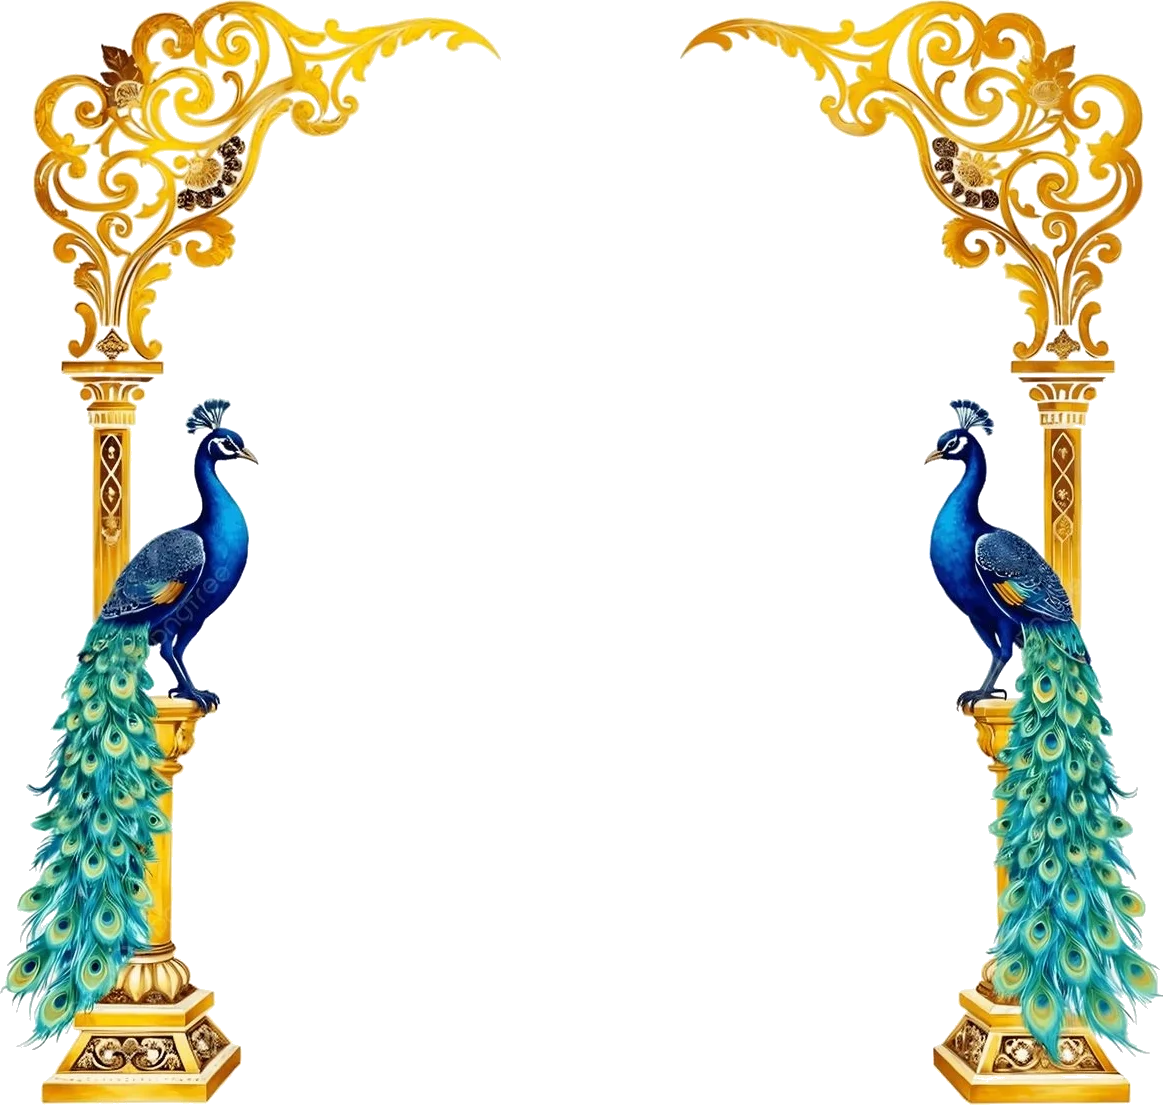
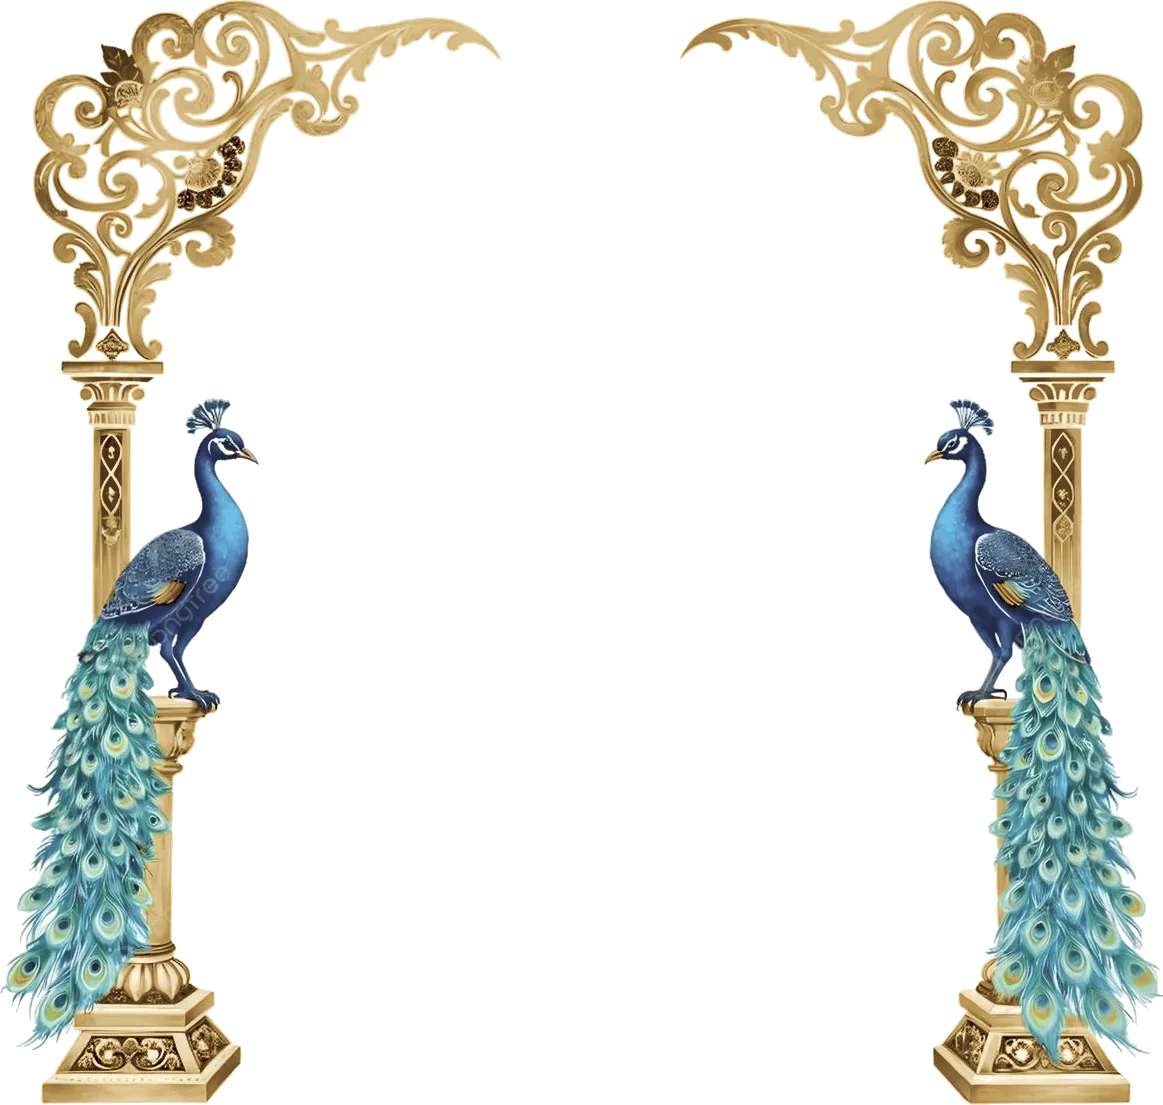
Family: the peacock frame in the site's antique gold
The peacock frame's bright yellow gold and electric blues stood out
against the rest of the site. Its gold is now the site's antique gold
(#B89554, toned from shadow to highlight so the carving and filigree
keep their relief), and the peacocks' blues and teals are calmer - less
saturated, a little lighter, leaning to the site's dusky blue.

Changed region(s): [[0.0, 0.0, 0.4334, 1.0], [0.5881, 0.0, 0.9905, 1.0]]

diff --git a/README.md b/README.md
@@ -117,7 +117,7 @@ Each section has its own composition, and each hands over to the next.
 | — | Between sections | A ripple of the Ganga (`SectionSeparator`, 72px, edge to edge): a fine wavy line in pale blue and gold with a fainter one behind, on a soft band of the site's mist so each section flows into the next; on it a small floating ornament — lotus (its petals opening and closing, just), diya (its flame flickering) or shankh, by turn — bobbing gently. Once in view the line draws from left to right (0.8s) and the ornament rises in after it; as the guest scrolls the two lines drift a little in opposite ways (±26px / ∓18px). None between the Save the Date and the couple section. Section paddings are small (`--section-gap` 1.25rem) so the ripple takes the place of empty space. Reduced motion: still. |
 | 03 | Countdown | Above: शुभ मुहूर्त, "Countdown Begins", a fine gold line and the date — the eyebrow and the date in a deep antique gold (#7A561C), the date at 14px, to read on the pale sky in sunlight. Then the couple's wreath (`assets.countdownWreath`), made over for Shiv–Parvati: its travel and café icons replaced with watercolour icons in its own palette — trishul, damru, bilva patra and diya on the left, ghanti, kalash, shankh and a rudraksha mala on the right, each level with its pair — and the ring closed beneath by a leafy vine running behind the mountain and the joined hands (made by `scratchpad/wreath/compose.cjs`: old icons taken out, the vines kept). Inside it, the wedding's month as a calendar (made from the date), raised so the 28th clears the mountain's peak by 19px+; on the wedding day the watercolour blue lotus (its reds, like the wreath's pink roses, recoloured to lavender-blue for a cool palette) blooms under a white 12, clear of the 11th and 13th, breathing with a soft gold glow (2.6s). The clouds part as it appears. Under it, "Hamare vivah mein baaki hain" in the section's italic, then the row: the days large in navy turning gold, hours, minutes and seconds a little smaller; labels in English over Hindi (DAYS / दिन …), tabular digits. The first time it is seen the numbers count up from zero (1s); then each digit rolls on its own as it changes (300ms), and a small gold bead beats by the seconds. Always to 12 February 2027, 7:30 PM at the venue (IST), whatever the guest's time zone; on the day "Aaj Hamara Vivah Hai", afterwards "Shubh Vivah" — "Thank you for blessing us." EN / हिं switches its words. Reduced motion: no count-up, no roll, nothing pulses — fades only. |
 | 05 | Wedding Events | "Wedding Events" and its quote above the couple's gold temple arch (`assets.eventsArch`), its blue lotuses (recoloured from pink for a cool palette), banana leaves, music and elephant all still. Inside the arch, one ceremony at a time (`events.list`: name, date, time, venue, dress code, the couple dressed for it — cut-outs in `public/art/events/` — and an optional artist credit); all sized to the arch's own width, so it fits the same on every phone. The venue is a small ivory button with a fine gold edge (pin, place, a small arrow out): a tap opens the place in Google Maps (the main venue's own `venue.mapsUrl` when set). To the next: a tap on the arch, a swipe left, or › under it (‹ or a swipe right for the one before; the arrow keys too); after the last, the first. Between the arrows, gold progress marks (the one shown a short gold bar; a tap goes straight to one), and under them "Tap the arch frame to see the events" (`events.hint`). The change (0.8s, ease-in-out; taps meanwhile are ignored): the ceremony shown fades out, its picture easing down to 97% (0.3s); a small gold ornament — a lotus bud between two tendrils — glimmers where the couple stood; the next picture fades in from 96% to 100% (0.45s) and its words rise softly in just after; the marks move at once. The words never move up or down. Reduced motion: a short crossfade, no ornament. The dates, times, venues and dress codes are SAMPLES. |
-| 06 | Family | Temple bells hang from the section's top corners (fine antique-gold threads, alike on both sides; they drop in and settle with one small swing). "Two Families, One Celebration", "With Their Blessings" and its line, then a small gold lotus rule. Each family in the peacock frame (`assets.familyFrame`: gold pillars crowned with gold scrolls, a peacock on each pillar — its white made transparent; the copy now in the project carries the stock site's watermark, so replace it with the licensed file), its photograph (`family.sides[].photo`, 4:5) between the peacocks with an arched top and a fine gold edge, the peacocks just in front of it; then the family's name and members (relation in gold capitals, the names beneath). On a phone one above the other, a lotus rule between; from 520px side by side. A faint temple at the foot. The frame appears, then the photograph within it, then the names; the two sides take turns. |
+| 06 | Family | Temple bells hang from the section's top corners (fine antique-gold threads, alike on both sides; they drop in and settle with one small swing). "Two Families, One Celebration", "With Their Blessings" and its line, then a small gold lotus rule. Each family in the peacock frame (`assets.familyFrame`: gold pillars crowned with gold scrolls, a peacock on each pillar — its white made transparent, its bright yellow gold toned to the site's antique gold and the peacocks' blues and teals calmed so it sits with the palette; the copy now in the project carries the stock site's watermark, so replace it with the licensed file), its photograph (`family.sides[].photo`, 4:5) between the peacocks with an arched top and a fine gold edge, the peacocks just in front of it; then the family's name and members (relation in gold capitals, the names beneath). On a phone one above the other, a lotus rule between; from 520px side by side. A faint temple at the foot. The frame appears, then the photograph within it, then the names; the two sides take turns. |
 | 07 | Gallery | A heart-shaped collage under "Moments to Remember", "Our Gallery" and the quote (26px below it): 14 photos of different sizes (5 of the 9 twice, once as a close-up) with the same thin cream gap between all of them and round the edge (0.9cqw), clipped to the heart curve on a cream mount with a faint, soft shadow, 20px from the screen's edges (up to 440px), sized in its own width units so a real phone and the desktop's phone match. Seen the first time, the tiles fly in from random edges (turned up to ±15°, 70ms apart, a little spring, ~1.4s); then the heart beats now and then, barely (a soft double beat to 1.012, every 3.2s). 3D: 900px perspective, each tile lifted 0–40px by its size (large back, small front) and drawn back to its place at rest; it tilts up to ±8° with the gyroscope (Android at once; an iPhone asks on the first tap, and until allowed — or if refused — a sideways drag tilts it), or toward the mouse in the desktop's phone. A tap opens a lightbox: the whole photo grows out of its tile onto a night-blue veil, with its caption and ‹ 2 / 9 › — a swipe sideways, the arrows or the arrow keys go through all nine photos once each; a swipe down, ×, a tap on the veil or Escape closes it back into a tile showing it (focus and scroll position kept). "Tap a photo" shows until the first tap. With more photos than tiles, every 3s one tile turns over (rotateY 180°) to one not shown — one at a time, not while the lightbox is open or the heart is tilting. Thumbnails lazy-load; the full photo loads in the lightbox. Transform and opacity (a filter for the shadows). Reduced motion or a slow phone: no tilt, turning or beat; tiles fade in where they are; the lightbox fades. |
 | 08 | RSVP | On the page's own sky, as every section (no card). A gold trishul and fine rule at the top, temple bells hanging alike from the upper corners; first the invitation — "A Sacred Celebration", one line and one deep-navy button with a gold edge (as the Blessing Wall's), "JOIN THE CELEBRATION →" (the arrow steps on when pointed at). Tapped (once; more taps are ignored), the acceptance is sent (saved to the family's database when there is one); only when that succeeds does the invitation fade and "The Sacred Union" open in its place (a failure keeps the button, with the reason): a temple arch in thin antique-gold lines draws itself (pillars rising, the arch meeting at its peak, a kalash, one gleam), Mahadev holding Maa Parvati close (the couple's chosen painting, `assets.rsvpCouple`, cut out of its red ground) appears within it from 97% with a soft warm light behind, their feet melting into the sky; then "A Sacred Celebration", the blessing and "Har Har Mahadev" (`rsvp.*`), a navy "Add to calendar" button (Google Calendar or an .ics file of `wedding.dateTime` at the venue — saying exactly what happened, never that the date is saved) and an honest saved-where note. Nothing is remembered on the phone: every visit, a reload too, starts with the button. Then all is still. Reduced motion: plain fades. |
 | 09 | Blessing Wall | Laid out like a page of an old wedding manuscript: "With Love and Blessings", "Blessing Wall", its line and a small gold lotus rule; one blessing at the centre on a warm-ivory, faintly textured leaf with small gold corner ornaments, an oversized opening quotation mark, italic serif words and the sender in small gold capitals; two beneath it, unboxed, side by side and slightly staggered, a fine gold line between them; "View all wishes →" (a fine gold underline that fills on hover, the arrow stepping on) opens them all in the sheet. "Leave a Blessing" follows on the page itself (no card): a small gold lotus, the heading, a clean box with a fine gold edge (gold-ink when writing, red when amiss, with its placeholder, counter and who it is signed by) and a navy "SEND YOUR BLESSING →" with a gold edge. Wishes are cleaned and checked; only once one is saved does the form give way to its confirmation (a gold lotus drawing itself, "Your blessing has found its place.", where it was kept) and the new blessing takes the centre of the wall; a failure keeps the words. "Leave another blessing" brings the form back. Reduced motion: plain fades. |
